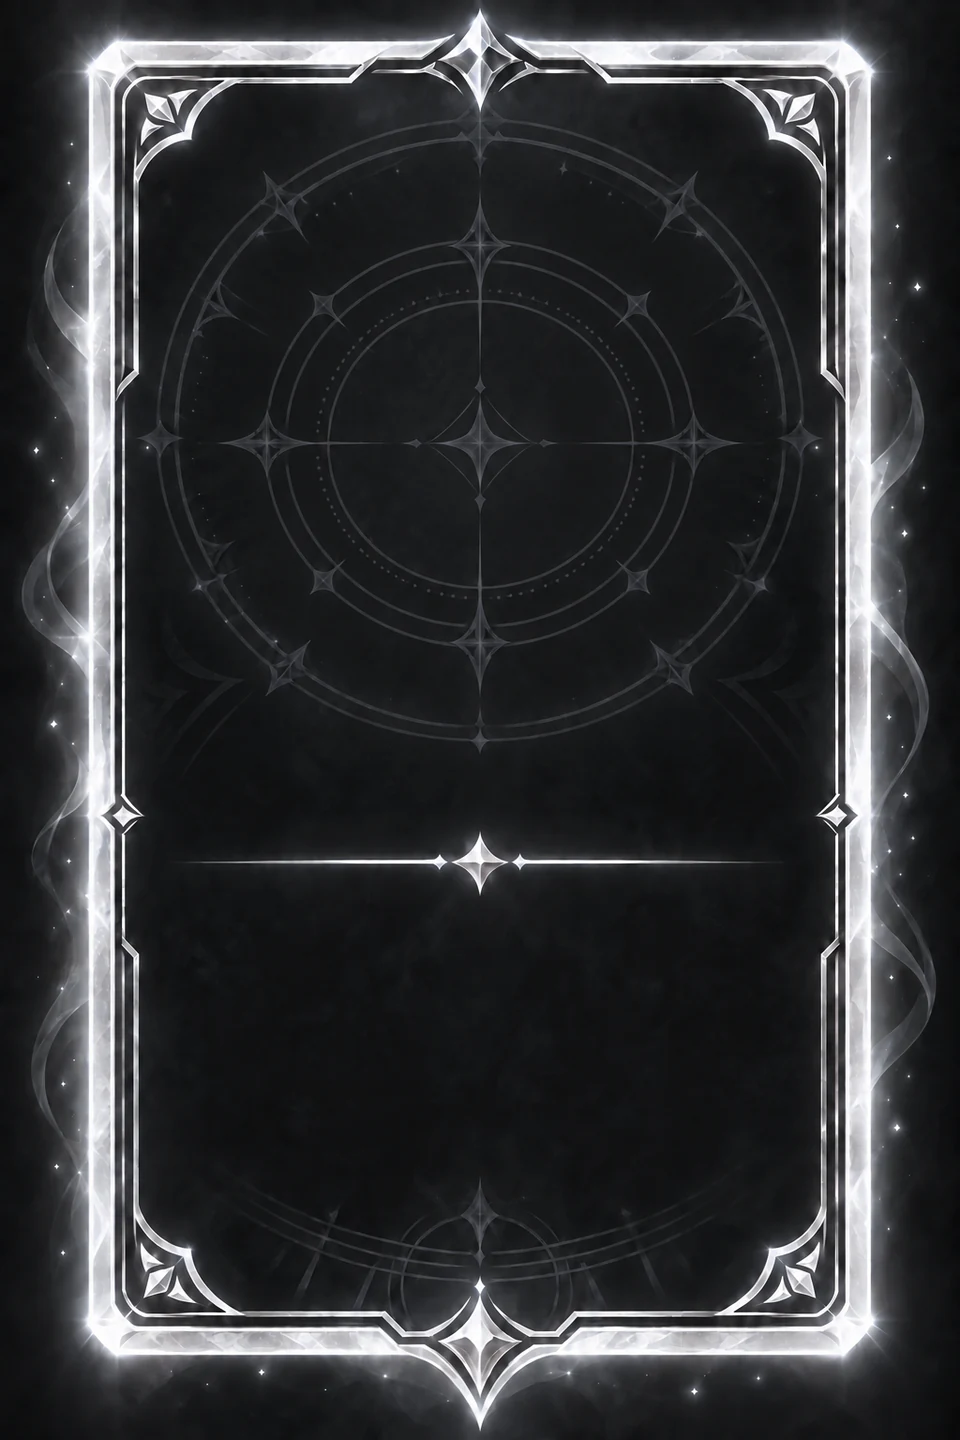
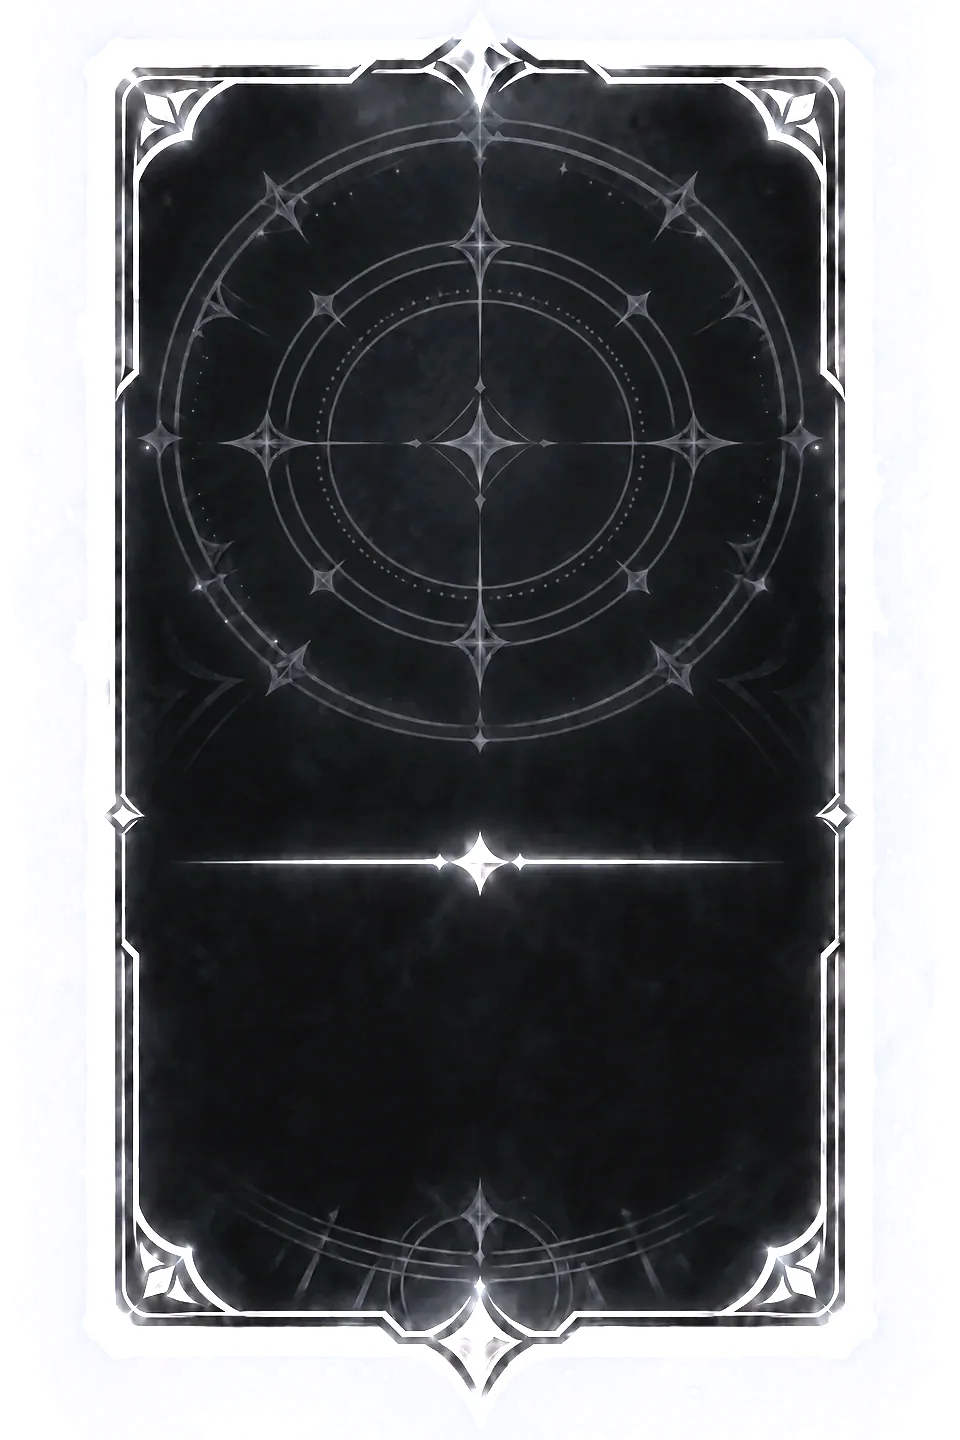
feat(abilities): transparent card frame, decoded deal entrance and deal-to-reveal glide
The platinum frame had its black backdrop baked in (RGB, no alpha), so every
ability card sat in a dark box. The frame is now RGBA: the silver line and the
panel it encloses stay opaque, the smoke and glow outside it composite as light.

The dealt card waits until its frame and icon decode, then rises in, so the text
never shows on an empty card. Straight from the deal, one's own card glides into
its reveal slot and the other seven rise in one after another.

diff --git a/holto-chess/src/ui/AbilitySelectionPanel.tsx b/holto-chess/src/ui/AbilitySelectionPanel.tsx
@@ -1,4 +1,4 @@
-import { useEffect, useRef, useState, type CSSProperties } from "react";
+import { useEffect, useLayoutEffect, useRef, useState, type CSSProperties } from "react";
 import { createPortal } from "react-dom";
 import type { PlayerView } from "../shared/protocol";
 import type { GameAction } from "../shared/protocol";
@@ -14,6 +14,7 @@ import "./abilitySelection.css";
 /**
  * ABILITY_DEAL: each seat sees only its own dealt ability, large and readable, for a few seconds.
  * ABILITY_REVEAL: every seat's ability in one grid until everyone is ready.
+ * Straight from the deal, one's own card glides from where it was dealt into its grid slot and the others rise in.
  */
 export function AbilitySelectionPanel({ view, send, seconds = 0, disabled = false }: { view: PlayerView; send: (action: GameAction) => void; seconds?: number; disabled?: boolean }) {
   const { t } = useTranslation();
@@ -23,15 +24,45 @@ export function AbilitySelectionPanel({ view, send, seconds = 0, disabled = fals
   const [selectedPlayer, setSelectedPlayer] = useState<string | null>(null);
   const shown = [draft?.mine, ...draft?.abilities.map(pick => pick.abilityId) ?? []].filter(Boolean).join(",");
   useEffect(() => { preloadAbilityArtwork(shown ? shown.split(",") as AbilityId[] : []); }, [shown]);
-  if (!draft) return null;
+  const dealCard = useRef<HTMLDivElement>(null);
+  const grid = useRef<HTMLDivElement>(null);
+  const dealtAt = useRef<DOMRect | null>(null);
   const phase = view.phase;
+  useLayoutEffect(() => {
+    if (phase === "ABILITY_DEAL") {
+      // The wrapper is never transformed, so its top edge and width are where the card rests.
+      const measure = () => { dealtAt.current = dealCard.current?.getBoundingClientRect() ?? null; };
+      measure();
+      window.addEventListener("resize", measure);
+      return () => window.removeEventListener("resize", measure);
+    }
+    const from = dealtAt.current;
+    dealtAt.current = null;
+    if (phase !== "ABILITY_REVEAL" || !from || !motionEnabled || !grid.current) return;
+    const slots = [...grid.current.querySelectorAll<HTMLElement>(".ability-draft-slot")];
+    let order = 0;
+    for (const slot of slots) {
+      const to = slot.getBoundingClientRect();
+      if (slot.classList.contains("is-viewer") && to.width > 0) {
+        const scale = from.width / to.width;
+        slot.animate([
+          { transform: `translate(${from.left - to.left}px, ${from.top - to.top}px) scale(${scale})`, transformOrigin: "0 0", zIndex: 3 },
+          { transform: "none", transformOrigin: "0 0", zIndex: 3 },
+        ], { duration: 650, easing: "cubic-bezier(.2,.8,.2,1)" });
+      } else {
+        slot.animate([{ opacity: 0, transform: "translateY(14px) scale(.94)" }, { opacity: 1, transform: "none" }],
+          { duration: 420, delay: 300 + order++ * 70, easing: "ease-out", fill: "backwards" });
+      }
+    }
+  }, [phase, motionEnabled]);
+  if (!draft) return null;
   const motion = motionEnabled ? " ability-motion-enabled" : "";
   if (phase === "ABILITY_DEAL") return <section className={`ability-selection is-ability_deal${motion}`}>
     <header className="ability-selection-heading"><div><p className="ability-selection-kicker">PORENA · ABILITY</p>
       <h2>{t("ability.deal.title")}</h2></div>
       <PhaseTimer className="ability-selection-timer" seconds={seconds} ariaLabel={`${t("shop.timeLeft")} ${seconds}${t("ability.selection.seconds")}`} /></header>
     <p className="ability-selection-instruction">{t("ability.deal.hint")}</p>
-    {draft.mine && <div className="ability-deal-card"><AbilityCard ability={draft.mine} flippable /><p className="ability-flip-hint">{t("ability.flipHint")}</p></div>}
+    {draft.mine && <div className="ability-deal-card" ref={dealCard}><AbilityCard ability={draft.mine} flippable /><p className="ability-flip-hint">{t("ability.flipHint")}</p></div>}
   </section>;
 
   const ready = view.players.find(player => player.playerId === view.me.playerId)?.ready;
@@ -44,7 +75,7 @@ export function AbilitySelectionPanel({ view, send, seconds = 0, disabled = fals
       <h2>{t("ability.selection.reveal")}</h2>
       <p className="ability-selection-instruction">{t("ability.selection.privateReveal")}</p>
     </div>
-    <div className="ability-back-grid" style={{ "--ability-columns": Math.ceil(picks.length / 2) } as CSSProperties}>{picks.map((pick) =>
+    <div className="ability-back-grid" ref={grid} style={{ "--ability-columns": Math.ceil(picks.length / 2) } as CSSProperties}>{picks.map((pick) =>
       <AbilityDraftSlot key={pick.slot} ability={pick.abilityId} own={pick.playerId === view.me.playerId}
         title={t(`ability.card.${pick.abilityId}.name`)}
         owner={pick.playerId === view.me.playerId ? t("round.you") : orderNames.get(pick.playerId)}

diff --git a/holto-chess/src/ui/abilitySelection.css b/holto-chess/src/ui/abilitySelection.css
@@ -14,7 +14,7 @@
 .ability-selection-heading h2{margin:0;font-size:clamp(21px,3vw,32px);word-break:keep-all}
 .ability-selection-heading .ability-selection-timer{flex:none;margin:0}
 .ability-selection-heading+.ability-selection-instruction{margin:0 auto 14px}
-.ability-card-thumbnail{container-type:inline-size;display:block;background:#080a0d;padding:0;border-color:#65778a;overflow:hidden;font-family:Manrope,'Noto Sans KR','Malgun Gothic','Apple SD Gothic Neo',sans-serif}
+.ability-card-thumbnail{container-type:inline-size;display:block;background:transparent;padding:0;border-color:#65778a;overflow:hidden;font-family:Manrope,'Noto Sans KR','Malgun Gothic','Apple SD Gothic Neo',sans-serif}
 .ability-card-thumbnail::before{display:none}
 .ability-card-thumbnail b{position:absolute;z-index:2;top:49%;left:10%;width:80%;height:10%;display:flex;align-items:center;justify-content:center;font-size:clamp(9px,9cqw,13px);line-height:1.1;letter-spacing:-.035em;white-space:nowrap}
 .ability-card-thumbnail .ability-card-owner{position:absolute;z-index:2;top:77%;left:12%;width:76%;transform:translateY(-50%);display:block;min-width:0;font:inherit;text-shadow:0 1px 3px #000,0 0 5px #000;box-sizing:border-box}
@@ -95,6 +95,8 @@ body:has(.ability-draft-dialog[open]){overflow:hidden}
 .ability-deal-card{display:grid;justify-items:center;gap:8px;width:min(340px,100%,calc((100dvh - 330px) * 2 / 3))}
 @media(min-width:769px){.ability-deal-card{width:min(340px,100%,calc((100dvh - 420px) * 2 / 3))}}
 @media(min-width:769px){.game-arena .ability-selection.is-ability_deal{margin-block:6px 12px;padding-block:6px 12px}}
-.ability-motion-enabled .ability-deal-card .ability-flip{animation:ability-deal-turn .55s cubic-bezier(.2,.8,.2,1) both}
-@keyframes ability-deal-turn{from{opacity:.3;transform:perspective(900px) rotateY(-90deg) scale(.94)}to{opacity:1;transform:none}}
-@media(prefers-reduced-motion:reduce){.ability-deal-card .ability-flip{animation:none}}
+/* The card waits for its frame and icon, so the text never shows on an empty card; then it rises in with a flash. */
+.ability-deal-card:has(.ability-artwork[data-ready="false"]) .ability-flip{visibility:hidden}
+.ability-motion-enabled .ability-deal-card:not(:has(.ability-artwork[data-ready="false"])) .ability-flip{animation:ability-deal-in .7s cubic-bezier(.2,.8,.2,1) both}
+@keyframes ability-deal-in{from{opacity:0;transform:translateY(28px) scale(.9);filter:brightness(2.2)}55%{opacity:1;filter:brightness(1.3)}to{opacity:1;transform:none;filter:none}}
+@media(prefers-reduced-motion:reduce){.ability-deal-card .ability-flip{animation:none!important}}

diff --git a/holto-chess/src/ui/abilities.css b/holto-chess/src/ui/abilities.css
@@ -4,7 +4,8 @@
   width: 100%;
   aspect-ratio: 2 / 3;
   flex: none;
-  background: #080a0d;
+  /* The frame image carries its own dark panel and a transparent outer glow. */
+  background: transparent;
   color: #f3f2ee;
   font-family: 'Batang', 'Noto Serif KR', 'AppleMyungjo', Georgia, serif;
   text-align: center;
